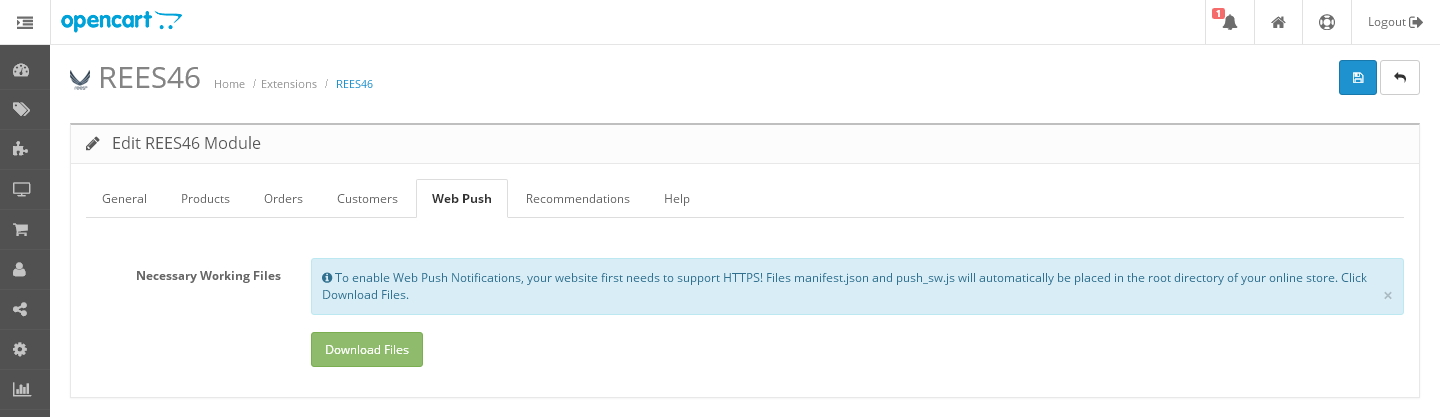
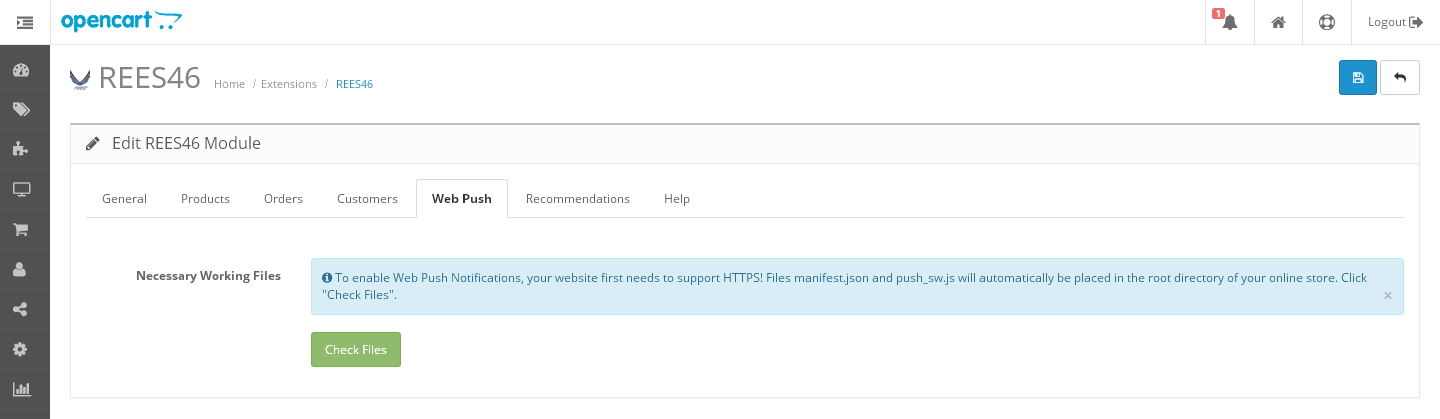
Update translation

diff --git a/upload/admin/language/ru-ru/extension/module/rees46.php b/upload/admin/language/ru-ru/extension/module/rees46.php
@@ -50,7 +50,7 @@ $_['text_customers']              = 'Все покупатели';
 $_['text_info_1']                 = '<a href="https://rees46.com/customers/sign_up?locale=ru" target="_blank">Для использования модуля необходимо зарегистрироваться на сайте rees46.com.</a>';
 $_['text_info_2']                 = 'Экспортируйте только один раз при первой настройке модуля. Будут экспортированы заказы за последние пол года с выбранными выше статусами. Пожалуйста, сохраните настройки перед экспортом.';
 $_['text_info_3']                 = 'Пожалуйста, сохраните настройки перед экспортом.';
-$_['text_info_4']                 = 'Для активации веб-пуш уведомлений необходимо: cделать так, чтобы сайт поддерживал протокол HTTPS, загрузить в корень сайта файлы manifest.json и push_sw.js.';
+$_['text_info_4']                 = 'Для активации веб-пуш уведомлений необходимо: cделать так, чтобы сайт поддерживал протокол HTTPS, загрузить в корень сайта файлы manifest.json и push_sw.js. Нажмите "Проверить файлы".';
 
 // Entry
 $_['entry_store_key']             = 'Store Key';

diff --git a/upload/admin/language/en-gb/extension/module/rees46.php b/upload/admin/language/en-gb/extension/module/rees46.php
@@ -13,7 +13,7 @@ $_['tab_help']                    = 'Help';
 
 // Button
 $_['button_export']               = 'Start Export';
-$_['button_check']                = 'Download Files';
+$_['button_check']                = 'Check Files';
 $_['button_generate']             = 'Start Generate';
 
 // Text
@@ -50,7 +50,7 @@ $_['text_customers']              = 'All Customers';
 $_['text_info_1']                 = '<a href="https://rees46.com/customers/sign_up?locale=en" target="_blank">To start using this module, please register an account on rees46.com.</a>';
 $_['text_info_2']                 = 'Manual export is required once - during initial configuration. Exported orders are the orders for the last 6 months with the statuses of your choice. Please remember to save current settings before starting the export.';
 $_['text_info_3']                 = 'Please save current settings before starting the export.';
-$_['text_info_4']                 = 'To enable Web Push Notifications, your website first needs to support HTTPS! Files manifest.json and push_sw.js will automatically be placed in the root directory of your online store. Click Download Files.';
+$_['text_info_4']                 = 'To enable Web Push Notifications, your website first needs to support HTTPS! Files manifest.json and push_sw.js will automatically be placed in the root directory of your online store. Click "Check Files".';
 
 // Entry
 $_['entry_store_key']             = 'Store Key';
